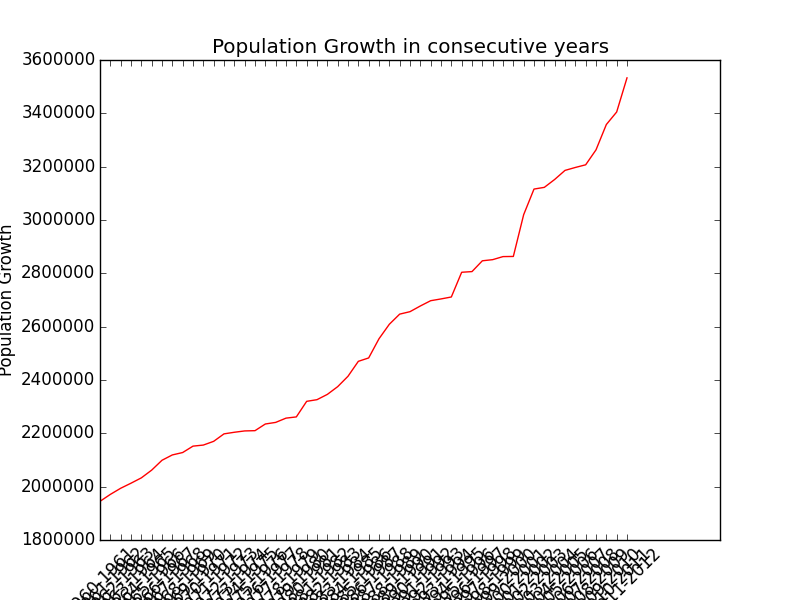
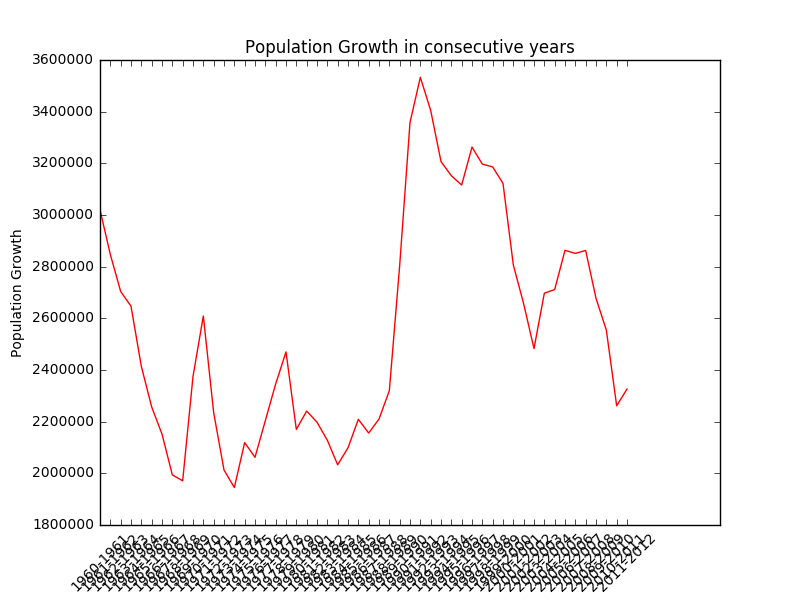
Fix to Chapter 3 solution: stats.py, us_population_stats_figure_2.png
chapter3/solutions/us_population_stats_figure_2.png is not correct
because the population growth list is unintentionally sorted by
`median()` in stats.py.

This commit replaces `numbers.sort()` in `median()` with
`sorted(numbers)`, which does not modify the list itself but returns a
new sorted list, and fixes us_population_stats_figure_2.png.

Before this commit:
    >>> data = [3, 2, 1]
    >>> median(data)
    >>> print(data) #=> [1, 2, 3] (data is sorted.)

After this commit:
    >>> data = [3, 2, 1]
    >>> median(data)
    >>> print(data) #=> [3, 2, 1] (data is not sorted.)

diff --git a/chapter3/solutions/stats.py b/chapter3/solutions/stats.py
@@ -18,7 +18,7 @@ def median(numbers):
     N = len(numbers)
 
     # sort the list in ascending order
-    numbers.sort()
+    numbers = sorted(numbers)
     
     # find the median
     if N % 2 == 0:
